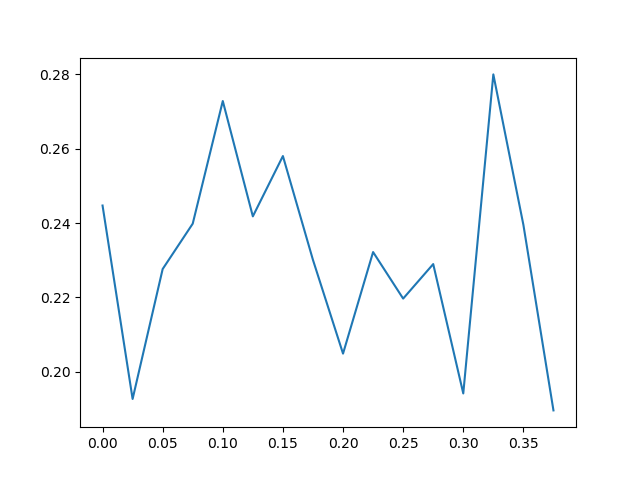
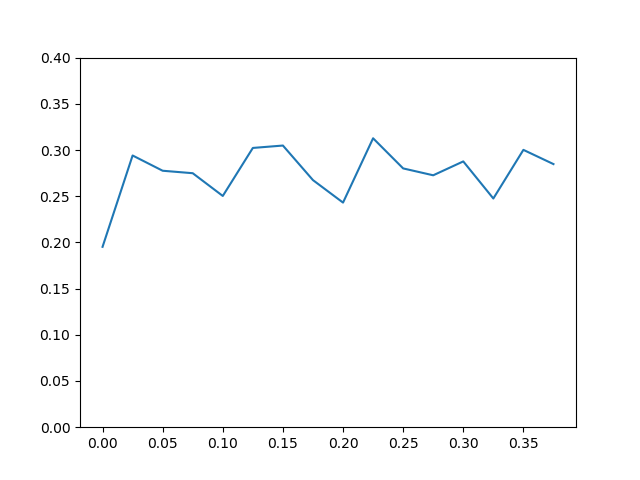
error figure

diff --git a/code/main_analysis.py b/code/main_analysis.py
@@ -51,6 +51,7 @@ def run_subject(behavior_subj, should_save_evoked_figs=False, should_train_epoch
     X_train, X_test = [], []
     y_train, y_test = [], []
     figure_label = "default"
+    n_classes = 4
 
     # Collect Data
     epochs, evoked = meg.get_processed_meg_data(subj, folder_dict, meg_dir)
@@ -68,7 +69,7 @@ def run_subject(behavior_subj, should_save_evoked_figs=False, should_train_epoch
     # Train Model with Epoch data
     if should_train_epoch_model:
         X_train, X_test = ml.generate_epoch_X(epochs, n_train=400, n_test=100)
-        y_train, y_test = ml.generate_y(behavior_subj, 5, n_train=400, n_test=100, n_classes=5)
+        y_train, y_test = ml.generate_y(behavior_subj, 5, n_train=400, n_test=100, n_classes=n_classes)
         model = ml.LogisticSlidingModel(max_iter=1500, n_classes=5, k=20, C=0.1, l1_ratio=0.95)
         figure_label = "epochs"
 
@@ -77,9 +78,14 @@ def run_subject(behavior_subj, should_save_evoked_figs=False, should_train_epoch
         inv_op_epoch = mne.minimum_norm.make_inverse_operator(epochs.info, fwd, cov, loose=0.2, depth=0.8)
         stc_epoch = mne.minimum_norm.apply_inverse_epochs(epochs, inv_op_epoch, 0.11, return_generator=True)
         X_train, X_test = ml.generate_stc_X(stc_epoch, n_train=400, n_test=100, mode="sklearn")
-        y_train, y_test = ml.generate_y(behavior_subj, 5, n_train=400, n_test=100, n_classes=5)
+        y_train, y_test = ml.generate_y(behavior_subj, 5, n_train=400, n_test=100, n_classes=n_classes)
         model = ml.LogisticSlidingModel(max_iter=1500, n_classes=5, k=1000, C=0.05, l1_ratio=0.95)
         figure_label = "source"
+    
+    print("\n\nHistogram:")
+    hist = np.histogram(y_train, bins=np.arange(n_classes+1))
+    print(hist)
+    print("\n\n\n")
 
     if permutation_test:
         figure_label += "_permutation"
@@ -101,11 +107,12 @@ def run_subject(behavior_subj, should_save_evoked_figs=False, should_train_epoch
 def main():
     training_results = []
     for subject in meg_subj_lst:
-        result = run_subject(subject, permutation_test=True)
+        result = run_subject(subject, permutation_test=False)
         training_results.append(result)
     
+    training_error = np.std(np.array(training_results), axis=0)
     training_results = np.array(training_results).mean(0)
-    ml.plot_results(np.linspace(0, 0.375, 16), training_results, "cross_val_permutation", "average")
+    ml.plot_results(np.linspace(0, 0.375, 16), training_results, "cross_val_error", "average", training_err=training_error)
 
     return 0
 

diff --git a/code/machine_learning.py b/code/machine_learning.py
@@ -105,8 +105,12 @@ def calc_accuracy(y_pred, y_test):
 
     return total / len(y_pred)
 
-def plot_results(time_scale, y_pred, ml_type, subj):
-    plt.plot(time_scale, y_pred)
+def plot_results(time_scale, y_pred, ml_type, subj, training_err=[]):
+    if len(training_err) > 0:
+        plt.errorbar(time_scale, y_pred, yerr=training_err)
+    else:
+        plt.plot(time_scale, y_pred)
+    plt.ylim((0, 0.4))
     plt.savefig('../Figures/ML/ml_results_%s_%s.png' % (ml_type, subj))
     plt.clf()
 
